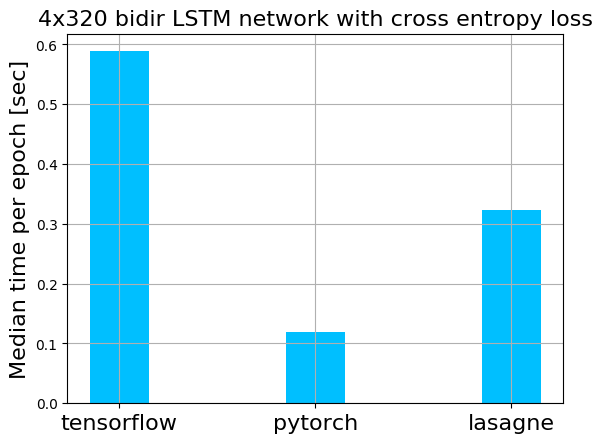
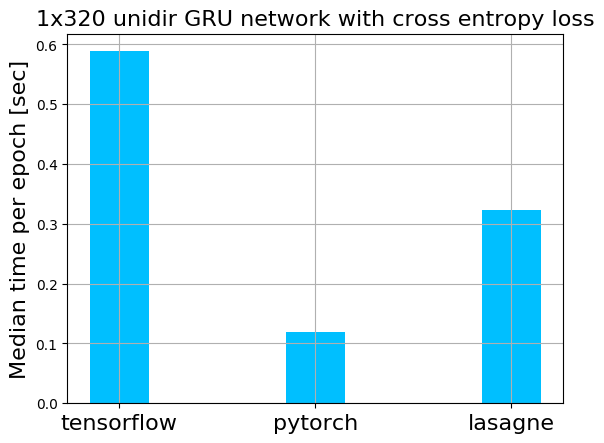
Fixed 1x320GRU plot

diff --git a/plot.py b/plot.py
@@ -1,7 +1,7 @@
 from data import bar_chart
 import matplotlib.pyplot as plt
 
-fig,ax=bar_chart(title='4x320 bidir LSTM network with cross entropy loss', selection=[1,2,3])
+fig,ax=bar_chart(title='1x320 unidir GRU network with cross entropy loss', selection=[1,2,3])
 # fig.savefig("results/bars.pdf", bbox_inches='tight')
 fig.savefig("results/bars.png", bbox_inches='tight')
 plt.show()
